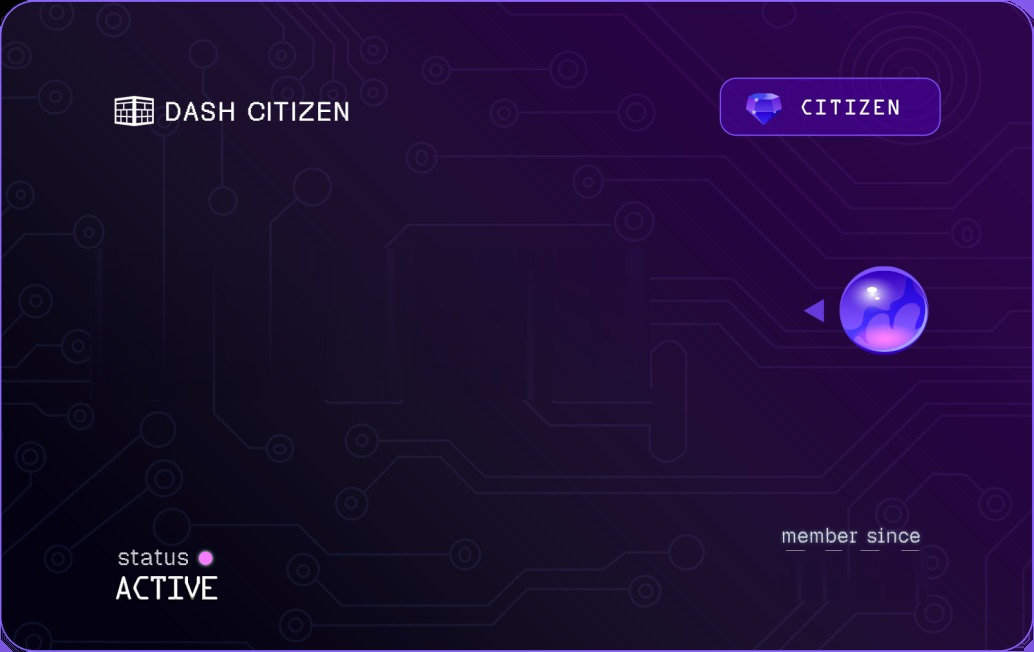
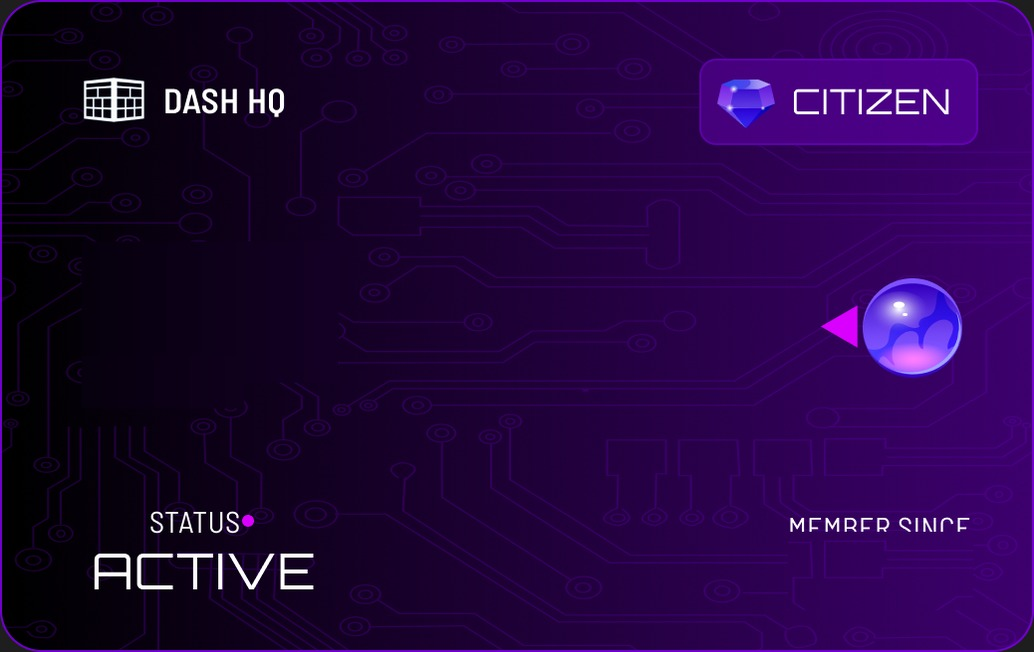
Rebuild membership card to match Figma design exactly (all 4 themes)
Regenerate card-bg-{red,purple,gold,blue}.jpg directly from the source
Figma file (real circuit pattern, gradient, border, badge, orb; fixes
"DASH CITIZEN" -> "DASH HQ"), including a real Blue background where
previously there was only a hand-drawn CSS approximation. Reposition
live name/handle/join-year overlay text to the exact Figma coordinates
in Orbitron/Asap Condensed, and simplify the download-card canvas logic
now that every theme uses the same baked-photo approach.

diff --git a/portal.js b/portal.js
@@ -245,7 +245,6 @@ var Dash = (function () {
 // ── Membership card color theme (orb selector) ───────────────────────────────
 var CardTheme = (function () {
   var THEMES = ['blue', 'gold', 'purple', 'red'];
-  var PHOTO_THEMES = ['gold', 'purple', 'red'];
   var KEY = 'dashhq_card_theme';
   var current = 'blue';
   function set(name) {
@@ -255,7 +254,6 @@ var CardTheme = (function () {
     if (card) {
       THEMES.forEach(function (t) { card.classList.remove('theme-' + t); });
       card.classList.add('theme-' + name);
-      card.classList.toggle('card-photo', PHOTO_THEMES.indexOf(name) !== -1);
       card.dataset.theme = name;
     }
     document.querySelectorAll('.orb-btn').forEach(function (b) {
@@ -277,176 +275,48 @@ var CardActions = (function () {
     var card = document.getElementById('memberCard');
     var rect = card.getBoundingClientRect();
     var S = 3, W = Math.round(rect.width * S), H = Math.round(rect.height * S);
-    var cs = getComputedStyle(card);
-    var cv1 = cs.getPropertyValue('--c-1').trim() || '#10204f';
-    var cv2 = cs.getPropertyValue('--c-2').trim() || '#0a1330';
-    var cv3 = cs.getPropertyValue('--c-3').trim() || '#0a1a3e';
-    var accent = cs.getPropertyValue('--c-accent').trim() || '#5B9BF8';
-    var lineColor = cs.getPropertyValue('--c-line').trim() || 'rgba(91,155,248,.5)';
-    var glowColor = cs.getPropertyValue('--c-glow').trim() || 'rgba(91,155,248,.4)';
-    var accentSoft = cs.getPropertyValue('--c-accent-soft').trim() || 'rgba(91,155,248,.16)';
-    var accentBorder = cs.getPropertyValue('--c-accent-border').trim() || 'rgba(91,155,248,.5)';
-
     var theme = card.dataset.theme || 'blue';
-    var isPhoto = ['gold', 'purple', 'red'].indexOf(theme) !== -1;
 
-    var logo = new Image(); logo.crossOrigin = 'anonymous';
-    var logoReady = new Promise(function (res) { logo.onload = res; logo.onerror = res; logo.src = 'assets/logo-mark-white.png'; });
     var bgImg = new Image(); bgImg.crossOrigin = 'anonymous';
-    var bgReady = isPhoto
-      ? new Promise(function (res) { bgImg.onload = res; bgImg.onerror = res; bgImg.src = 'assets/card-bg-' + theme + '.jpg'; })
-      : Promise.resolve();
+    var bgReady = new Promise(function (res) { bgImg.onload = res; bgImg.onerror = res; bgImg.src = 'assets/card-bg-' + theme + '.jpg'; });
     var fontsReady = Promise.all([
-      document.fonts.load('400 40px OCRAStd'),
-      document.fonts.load('700 16px Geist'),
-      document.fonts.load('600 14px Geist')
+      document.fonts.load('400 40px Orbitron'),
+      document.fonts.load('400 20px "Asap Condensed"')
     ]).catch(function () { });
 
-    Promise.all([fontsReady, logoReady, bgReady]).then(draw);
+    Promise.all([fontsReady, bgReady]).then(draw);
 
-    function chromeGrad(x, yTop, yBottom) {
-      var g = x.createLinearGradient(0, yTop, 0, yBottom);
-      g.addColorStop(0, '#f7f7fa'); g.addColorStop(0.32, '#c7c7d2'); g.addColorStop(0.55, '#f2f3f7'); g.addColorStop(1, '#93939f');
-      return g;
-    }
-
-    // Gold/Purple/Red reuse the exact source card art (drawn pixel-for-pixel
-    // here, same as on screen) with just the live name/handle/join-year
-    // painted on top - only Blue (no source art) gets the fully hand-drawn
-    // circuit/badge/orb below.
-    function drawPhoto(x) {
-      x.drawImage(bgImg, 0, 0, W, H);
-      var nameTxt = (document.getElementById('cardName') || {}).textContent || 'CITIZEN';
-      var nameY = H * 0.487;
-      x.font = '400 ' + (30 * S) + 'px OCRAStd,monospace';
-      x.fillStyle = chromeGrad(x, nameY - 26 * S, nameY + 6 * S);
-      x.fillText(nameTxt, W * 0.087, nameY);
-      var handleTxt = (document.getElementById('cardHandle') || {}).textContent || '';
-      x.fillStyle = '#C7CEDD'; x.font = '400 ' + (13 * S) + 'px "JetBrains Mono",monospace';
-      x.shadowColor = 'rgba(0,0,0,.5)'; x.shadowBlur = 2 * S;
-      x.fillText(handleTxt, W * 0.087, nameY + 24 * S);
-      x.shadowBlur = 0;
-      var sinceTxt = (document.getElementById('cardJoined') || {}).textContent || '-';
-      x.textAlign = 'right';
-      var yearGrad = chromeGrad(x, H * 0.905 - 2 * S, H * 0.905 + 16 * S);
-      x.font = '400 ' + (15 * S) + 'px OCRAStd,monospace'; x.fillStyle = yearGrad;
-      x.fillText(sinceTxt, W * 0.897, H * 0.923);
-      x.textAlign = 'left';
-    }
-
+    // Every theme is the actual Figma card art (circuit, gradient, border,
+    // logo, badge, orb, status/since label all baked into the photo) - only
+    // the citizen's real name/handle/join-year get painted on top, at the
+    // exact same percentages the on-screen .card CSS uses.
     function draw() {
       var cvs = document.createElement('canvas'); cvs.width = W; cvs.height = H;
       var x = cvs.getContext('2d');
-      function rr(px, py, w, h, r) { x.beginPath(); x.moveTo(px + r, py); x.arcTo(px + w, py, px + w, py + h, r); x.arcTo(px + w, py + h, px, py + h, r); x.arcTo(px, py + h, px, py, r); x.arcTo(px, py, px + w, py, r); x.closePath(); }
-      rr(0, 0, W, H, 20 * S); x.save(); x.clip();
+      function rr(px, py, w, h, rxv, ryv) { x.beginPath(); x.moveTo(px + rxv, py); x.arcTo(px + w, py, px + w, py + h, rxv); x.arcTo(px + w, py + h, px, py + h, rxv); x.arcTo(px, py + h, px, py, rxv); x.arcTo(px, py, px + w, py, rxv); x.closePath(); }
+      var rx = W * 0.0387, ry = H * 0.0613;
+      rr(0, 0, W, H, rx, ry); x.save(); x.clip();
 
-      if (isPhoto && bgImg.complete && bgImg.naturalWidth) {
-        drawPhoto(x);
-        x.restore();
-        rr(1 * S, 1 * S, W - 2 * S, H - 2 * S, 20 * S); x.strokeStyle = 'rgba(255,255,255,0.16)'; x.lineWidth = 2 * S; x.stroke();
-        var aPhoto = document.createElement('a'); aPhoto.href = cvs.toDataURL('image/png'); aPhoto.download = 'dash-citizen-card.png';
-        document.body.appendChild(aPhoto); aPhoto.click(); aPhoto.remove();
-        return;
-      }
-
-      var g = x.createLinearGradient(0, 0, W, H); g.addColorStop(0, cv1); g.addColorStop(0.55, cv2); g.addColorStop(1, cv3);
-      x.fillStyle = g; x.fillRect(0, 0, W, H);
-
-      var rg = x.createRadialGradient(W * 0.88, H * 0.05, 0, W * 0.88, H * 0.05, W * 0.42);
-      rg.addColorStop(0, glowColor); rg.addColorStop(1, 'rgba(0,0,0,0)');
-      x.globalCompositeOperation = 'screen'; x.fillStyle = rg; x.fillRect(0, 0, W, H);
-      x.globalCompositeOperation = 'source-over';
-
-      var vx = W / 1034, vy = H / 652;
-      var segs = [[0, 652, 1034, 0], [30, 70, 150, 190], [150, 190, 150, 280], [150, 280, 260, 280], [260, 280, 260, 380], [700, 60, 820, 180], [820, 180, 820, 80], [60, 450, 180, 570], [380, 500, 500, 620], [600, 440, 720, 560], [850, 380, 970, 500], [900, 240, 1010, 130]];
-      x.strokeStyle = lineColor; x.lineWidth = 1.3 * S; x.globalAlpha = 0.55;
-      segs.forEach(function (l) { x.beginPath(); x.moveTo(l[0] * vx, l[1] * vy); x.lineTo(l[2] * vx, l[3] * vy); x.stroke(); });
-      [46, 80, 114].forEach(function (r) { x.beginPath(); x.arc(890 * vx, 70 * vy, r * Math.min(vx, vy), 0, Math.PI * 2); x.stroke(); });
-      var dots = [[30, 70], [150, 190], [150, 280], [260, 280], [260, 380], [700, 60], [820, 180], [820, 80], [60, 450], [180, 570], [380, 500], [500, 620], [600, 440], [720, 560], [850, 380], [970, 500], [900, 240], [1010, 130]];
-      x.fillStyle = lineColor;
-      dots.forEach(function (d) { x.beginPath(); x.arc(d[0] * vx, d[1] * vy, 4 * Math.min(vx, vy), 0, Math.PI * 2); x.fill(); });
-      x.globalAlpha = 1;
-
-      var P = 26 * S;
-      var ls = 18 * S;
-      if (logo.complete && logo.naturalWidth) x.drawImage(logo, P, P - 3 * S, ls, ls);
-      x.fillStyle = '#fff'; x.font = '700 ' + (14 * S) + 'px Geist,Sora,sans-serif'; x.textBaseline = 'middle'; x.letterSpacing = (1.5 * S) + 'px';
-      x.shadowColor = 'rgba(0,0,0,.6)'; x.shadowBlur = 2 * S; x.shadowOffsetY = 1 * S;
-      x.fillText('DASH CITIZEN', P + ls + 8 * S, P - 3 * S + ls / 2); x.letterSpacing = '0px'; x.textBaseline = 'alphabetic';
-      x.shadowColor = 'transparent'; x.shadowBlur = 0; x.shadowOffsetY = 0;
-
-      var tierTxt = ((document.getElementById('cardTier') || {}).textContent || 'CITIZEN').toUpperCase();
-      x.font = '600 ' + (11 * S) + 'px Geist,"JetBrains Mono",monospace'; x.letterSpacing = (1 * S) + 'px';
-      var gemW = 15 * S, gap = 6 * S, padL = 10 * S, padR = 13 * S;
-      var tw = x.measureText(tierTxt).width;
-      var pw = gemW + gap + tw + padL + padR, ph = 30 * S;
-      var bx = W - P - pw, by = P - 4 * S;
-      rr(bx, by, pw, ph, ph / 2); x.fillStyle = accentSoft; x.fill();
-      x.strokeStyle = accentBorder; x.lineWidth = 1.5 * S; x.stroke();
-      x.save(); x.translate(bx + padL, by + ph / 2 - gemW / 2); var gs = gemW / 24; x.scale(gs, gs);
-      x.lineJoin = 'round';
-      var gemGrad = x.createLinearGradient(0, 3, 0, 21);
-      gemGrad.addColorStop(0, '#fff'); gemGrad.addColorStop(0.34, accent); gemGrad.addColorStop(1, cv2);
-      x.beginPath(); x.moveTo(7, 3); x.lineTo(17, 3); x.lineTo(21, 10); x.lineTo(12, 21); x.lineTo(3, 10); x.closePath();
-      x.fillStyle = gemGrad; x.fill();
-      x.strokeStyle = 'rgba(0,0,0,.45)'; x.lineWidth = 0.6; x.stroke();
-      x.beginPath(); x.moveTo(6.7, 4.6); x.bezierCurveTo(8.5, 3.6, 15.5, 3.6, 17.3, 4.6); x.lineTo(15.2, 7.6); x.lineTo(8.8, 7.6); x.closePath();
-      x.fillStyle = 'rgba(255,255,255,.65)'; x.fill();
-      x.fillStyle = 'rgba(255,255,255,.95)'; x.beginPath(); x.arc(7.6, 9.2, 0.85, 0, Math.PI * 2); x.fill();
-      x.fillStyle = 'rgba(255,255,255,.8)'; x.beginPath(); x.arc(8.2, 14, 0.65, 0, Math.PI * 2); x.fill();
-      x.fillStyle = 'rgba(255,255,255,.7)'; x.beginPath(); x.arc(17, 12.6, 0.65, 0, Math.PI * 2); x.fill();
-      x.restore();
-      x.fillStyle = accent; x.textBaseline = 'middle';
-      x.shadowColor = 'rgba(0,0,0,.5)'; x.shadowBlur = 2 * S; x.shadowOffsetY = 1 * S;
-      x.fillText(tierTxt, bx + padL + gemW + gap, by + ph / 2 + 1 * S);
-      x.shadowColor = 'transparent'; x.shadowBlur = 0; x.shadowOffsetY = 0;
-      x.textBaseline = 'alphabetic'; x.letterSpacing = '0px';
+      x.drawImage(bgImg, 0, 0, W, H);
+      x.textBaseline = 'top';
 
       var nameTxt = (document.getElementById('cardName') || {}).textContent || 'CITIZEN';
-      var nameY = H * 0.487;
-      x.font = '400 ' + (30 * S) + 'px OCRAStd,monospace';
-      x.fillStyle = chromeGrad(x, nameY - 26 * S, nameY + 6 * S);
-      x.fillText(nameTxt, W * 0.087, nameY);
-      var handleTxt = (document.getElementById('cardHandle') || {}).textContent || '';
-      x.fillStyle = '#C7CEDD'; x.font = '400 ' + (13 * S) + 'px "JetBrains Mono",monospace';
+      x.font = '400 ' + (0.0967 * W) + 'px Orbitron,monospace';
+      x.fillStyle = '#fff'; x.letterSpacing = (0.001934 * W) + 'px';
       x.shadowColor = 'rgba(0,0,0,.5)'; x.shadowBlur = 2 * S;
-      x.fillText(handleTxt, W * 0.087, nameY + 24 * S);
-      x.shadowBlur = 0;
+      x.fillText(nameTxt, W * 0.087, H * 0.383);
 
-      var orbR = 19 * S, orbCx = W - W * 0.08 - orbR, orbCy = H * 0.478;
-      var triX = orbCx - orbR - 14 * S;
-      x.beginPath(); x.moveTo(triX, orbCy - 7 * S); x.lineTo(triX, orbCy + 7 * S); x.lineTo(triX - 11 * S, orbCy); x.closePath();
-      x.fillStyle = accent; x.globalAlpha = 0.85; x.fill(); x.globalAlpha = 1;
-      x.save(); x.shadowColor = glowColor; x.shadowBlur = 22 * S;
-      var og = x.createRadialGradient(orbCx - orbR * 0.24, orbCy - orbR * 0.3, orbR * 0.05, orbCx - orbR * 0.1, orbCy - orbR * 0.05, orbR * 1.05);
-      og.addColorStop(0, '#fff'); og.addColorStop(0.32, accent); og.addColorStop(0.92, cv2); og.addColorStop(1, cv1);
-      x.beginPath(); x.arc(orbCx, orbCy, orbR, 0, Math.PI * 2); x.fillStyle = og; x.fill();
-      var spec = x.createRadialGradient(orbCx - orbR * 0.3, orbCy - orbR * 0.36, 0, orbCx - orbR * 0.3, orbCy - orbR * 0.36, orbR * 0.4);
-      spec.addColorStop(0, 'rgba(255,255,255,.95)'); spec.addColorStop(1, 'rgba(255,255,255,0)');
-      x.beginPath(); x.arc(orbCx, orbCy, orbR, 0, Math.PI * 2); x.fillStyle = spec; x.fill();
-      x.restore();
-
-      var labelY = H * 0.845, valueY = H * 0.923;
-      x.font = '600 ' + (9.5 * S) + 'px Geist,"JetBrains Mono",monospace'; x.letterSpacing = (1 * S) + 'px';
-      var dotR = 3.5 * S, dotX = W * 0.087 + dotR;
-      x.save(); x.shadowColor = glowColor; x.shadowBlur = 8 * S;
-      x.beginPath(); x.arc(dotX, labelY, dotR, 0, Math.PI * 2); x.fillStyle = accent; x.fill(); x.restore();
-      x.fillStyle = '#8A9BBF'; x.fillText('STATUS', dotX + dotR + 6 * S, labelY + 1 * S);
-      x.letterSpacing = '0px';
-      var footGrad = chromeGrad(x, valueY - 16 * S, valueY + 2 * S);
-      x.font = '400 ' + (15 * S) + 'px OCRAStd,monospace'; x.fillStyle = footGrad;
-      x.fillText('ACTIVE', W * 0.087, valueY);
+      var handleTxt = (document.getElementById('cardHandle') || {}).textContent || '';
+      x.font = '400 ' + (0.031 * W) + 'px "Asap Condensed",sans-serif'; x.letterSpacing = (0.000619 * W) + 'px';
+      x.fillText(handleTxt, W * 0.087, H * 0.558);
 
       var sinceTxt = (document.getElementById('cardJoined') || {}).textContent || '-';
-      x.textAlign = 'right';
-      x.font = '600 ' + (9.5 * S) + 'px Geist,"JetBrains Mono",monospace'; x.letterSpacing = (1 * S) + 'px'; x.fillStyle = '#8A9BBF';
-      x.fillText('MEMBER SINCE', W * 0.897, labelY); x.letterSpacing = '0px';
-      x.font = '400 ' + (15 * S) + 'px OCRAStd,monospace'; x.fillStyle = footGrad;
-      x.fillText(sinceTxt, W * 0.897, valueY);
-      x.textAlign = 'left';
+      x.font = '400 ' + (0.0484 * W) + 'px Orbitron,monospace'; x.letterSpacing = (0.000967 * W) + 'px';
+      x.fillText(sinceTxt, W * 0.77, H * 0.828);
 
+      x.shadowBlur = 0; x.letterSpacing = '0px'; x.textBaseline = 'alphabetic';
       x.restore();
-      rr(1 * S, 1 * S, W - 2 * S, H - 2 * S, 20 * S); x.strokeStyle = 'rgba(255,255,255,0.16)'; x.lineWidth = 2 * S; x.stroke();
+      rr(1 * S, 1 * S, W - 2 * S, H - 2 * S, rx, ry); x.strokeStyle = 'rgba(255,255,255,0.16)'; x.lineWidth = 2 * S; x.stroke();
       var a = document.createElement('a'); a.href = cvs.toDataURL('image/png'); a.download = 'dash-citizen-card.png';
       document.body.appendChild(a); a.click(); a.remove();
     }

diff --git a/portal.css b/portal.css
@@ -80,54 +80,31 @@
 .welcome{font-family:var(--mono);font-size:12px;letter-spacing:.16em;text-transform:uppercase;color:var(--green);margin-bottom:18px;display:inline-flex;align-items:center;gap:8px}
 .welcome .d{width:7px;height:7px;border-radius:50%;background:var(--green);box-shadow:0 0 8px var(--green)}
 
-/* Card themes: each is just a set of custom properties, the .card markup
-   below never changes, only which theme class is on it. Gold/Purple/Red
-   colors match the source card designs; Blue reuses the site's own brand
-   blue (its gradient stops are the site's original, un-themed card look);
-   Mono is silver-on-black for a colorless option. */
-.card.theme-gold{--c-1:#000;--c-2:#1a1400;--c-3:#3d3000;--c-line:rgba(240,201,74,.55);--c-accent:#F0C94A;--c-accent-soft:rgba(240,201,74,.16);--c-accent-border:rgba(240,201,74,.5);--c-glow:rgba(240,201,74,.4)}
-.card.theme-purple{--c-1:#000;--c-2:#160a2e;--c-3:#2d1259;--c-line:rgba(151,124,246,.5);--c-accent:#977CF6;--c-accent-soft:rgba(151,124,246,.16);--c-accent-border:rgba(151,124,246,.5);--c-glow:rgba(151,124,246,.4)}
-.card.theme-red{--c-1:#000;--c-2:#1c0508;--c-3:#3d0a10;--c-line:rgba(240,90,71,.5);--c-accent:#F0473A;--c-accent-soft:rgba(240,71,58,.16);--c-accent-border:rgba(240,71,58,.5);--c-glow:rgba(240,71,58,.4)}
-.card.theme-blue{--c-1:#10204f;--c-2:#0a1330;--c-3:#0a1a3e;--c-line:rgba(91,155,248,.5);--c-accent:#5B9BF8;--c-accent-soft:rgba(91,155,248,.16);--c-accent-border:rgba(91,155,248,.5);--c-glow:rgba(91,155,248,.4)}
+/* Card art: all four themes are the actual Figma card designs exported as
+   one pixel-exact background photo each (circuit pattern, gradient,
+   border, logo, DASH HQ wordmark, CITIZEN badge+gem, orb, status/ACTIVE
+   and the "member since" label all baked in) - only the citizen's real
+   name/handle/join-year render as live text, positioned at the exact spot
+   those fields sit in the source design. container-type lets that live
+   text scale in lockstep with the card's rendered width at any screen
+   size, matching the fixed 1034x652 design canvas ratio exactly. */
+.card.theme-gold{--c-photo:url('assets/card-bg-gold.jpg')}
+.card.theme-purple{--c-photo:url('assets/card-bg-purple.jpg')}
+.card.theme-red{--c-photo:url('assets/card-bg-red.jpg')}
+.card.theme-blue{--c-photo:url('assets/card-bg-blue.jpg')}
 
-.card{position:relative;width:100%;aspect-ratio:1.586/1;border-radius:18px;overflow:hidden;border:1.5px solid var(--c-accent-border);background:linear-gradient(135deg,var(--c-1),var(--c-2) 55%,var(--c-3));text-align:left;padding:24px;box-shadow:0 30px 70px -28px var(--c-glow)}
+.card{position:relative;width:100%;aspect-ratio:1034/652;border-radius:3.87%/6.13%;overflow:hidden;background-image:var(--c-photo);background-size:cover;background-position:center;background-color:#000;text-align:left;container-type:inline-size;box-shadow:0 30px 70px -28px rgba(0,0,0,.55)}
 
-/* Gold/Purple/Red are the actual source card artwork (logo, badge, gem,
-   orb, and circuit pattern baked in as one pixel-exact photo) with only
-   the citizen's real name/handle/join-year overlaid as live text at the
-   same spot those fields sit in the source design - not a hand-rebuilt
-   approximation. Blue has no source art (it's an extrapolated scheme
-   using the site's own brand color), so it keeps the hand-drawn
-   circuit/badge/orb built below. Both share the exact same absolute
-   positions for name/handle/orb/status/year so switching themes never
-   shifts anything on screen. */
-.card.card-photo{background-image:var(--c-photo);background-size:cover;background-position:center;background-color:#000}
-.card.card-photo.theme-gold{--c-photo:url('assets/card-bg-gold.jpg')}
-.card.card-photo.theme-purple{--c-photo:url('assets/card-bg-purple.jpg')}
-.card.card-photo.theme-red{--c-photo:url('assets/card-bg-red.jpg')}
-.card.card-photo .card-circuit,.card.card-photo .card-glow,.card.card-photo .top,.card.card-photo .orb-indicator{display:none}
-.card.card-photo .status-block{display:none}
-.card.card-photo .since-block .l{display:none}
-.card-circuit{position:absolute;inset:0;width:100%;height:100%;color:var(--c-line);opacity:.7}
-.card-glow{position:absolute;top:-30%;right:-20%;width:65%;height:80%;border-radius:50%;background:radial-gradient(circle,var(--c-glow),transparent 70%);mix-blend-mode:screen;pointer-events:none}
+/* Hand-drawn fallback pieces from the pre-photo version - always hidden
+   now that every theme has real source art baked into its background. */
+.card .card-circuit,.card .card-glow,.card .top,.card .orb-indicator,.card .status-block,.card .since-block .l{display:none}
+
 .card .ct{position:relative;z-index:2;height:100%}
-.card .top{display:flex;align-items:center;justify-content:space-between}
-.card .brand{display:inline-flex;align-items:center;gap:8px;font-family:'Geist',var(--display);font-weight:700;font-size:14px;letter-spacing:.12em;color:#fff;text-shadow:0 1px 1px rgba(0,0,0,.6),0 -1px 0 rgba(255,255,255,.18)}
-.card .brand .card-brand-mark{width:19px;height:19px;flex:none;object-fit:contain}
-.card .tier-badge{display:inline-flex;align-items:center;gap:6px;font-family:'Geist',var(--body);font-weight:600;font-size:11px;letter-spacing:.1em;padding:6px 13px 6px 10px;border-radius:20px;background:var(--c-accent-soft);border:1px solid var(--c-accent-border);color:var(--c-accent);text-shadow:0 1px 1px rgba(0,0,0,.5),0 -1px 0 rgba(255,255,255,.15)}
-.card .tier-badge .gem-ic{width:14px;height:14px;flex:none;color:var(--c-accent);stroke-width:1.4;stroke-linejoin:round}
-.card .id-block{position:absolute;left:8.7%;top:38%;max-width:65%}
-.card .name{font-family:'OCRAStd',var(--mono);font-weight:400;font-size:clamp(22px,6vw,32px);letter-spacing:.02em;line-height:1.15;background:linear-gradient(180deg,#f7f7fa 0%,#c7c7d2 32%,#f2f3f7 55%,#93939f 100%);-webkit-background-clip:text;background-clip:text;color:transparent;filter:drop-shadow(0 1px 1px rgba(0,0,0,.55))}
-.card .handle{font-family:var(--mono);font-size:13px;color:#C7CEDD;margin-top:4px;text-shadow:0 1px 2px rgba(0,0,0,.5)}
-.card .orb-indicator{position:absolute;right:8%;top:41%;display:flex;align-items:center;gap:6px}
-.card .orb-tri{width:0;height:0;border-top:7px solid transparent;border-bottom:7px solid transparent;border-right:11px solid var(--c-accent);opacity:.85}
-.card .orb-ball{width:38px;height:38px;border-radius:50%;flex:none;background:radial-gradient(circle at 30% 24%,rgba(255,255,255,.98) 0%,rgba(255,255,255,.55) 8%,rgba(255,255,255,0) 22%),radial-gradient(circle at 38% 32%,#fff 0%,var(--c-accent) 34%,var(--c-2) 92%);box-shadow:0 0 22px var(--c-glow),inset 0 -8px 12px rgba(0,0,0,.45),inset 0 4px 6px rgba(255,255,255,.3),inset -6px -4px 10px rgba(0,0,0,.25)}
-.card .status-block{position:absolute;left:8.7%;top:83.6%}
-.card .foot .l{font-family:'Geist',var(--mono);font-size:10px;letter-spacing:.08em;color:var(--muted2);display:flex;align-items:center;gap:6px}
-.card .foot .since-block .l{justify-content:flex-end}
-.card .foot .dot{width:7px;height:7px;border-radius:50%;background:var(--c-accent);box-shadow:0 0 8px var(--c-glow)}
-.card .foot .v{font-family:'OCRAStd',var(--mono);font-weight:400;font-size:17px;margin-top:3px;background:linear-gradient(180deg,#f7f7fa 0%,#c7c7d2 32%,#f2f3f7 55%,#93939f 100%);-webkit-background-clip:text;background-clip:text;color:transparent;filter:drop-shadow(0 1px 1px rgba(0,0,0,.55))}
-.card .since-block{position:absolute;right:10.4%;top:88.5%;text-align:right}
+.card .id-block{position:absolute;inset:0}
+.card .name{position:absolute;left:8.7%;top:38.3%;max-width:65%;font-family:'Orbitron',var(--mono);font-weight:400;font-size:9.67cqw;line-height:1;letter-spacing:.19cqw;color:#fff;text-shadow:0 1px 2px rgba(0,0,0,.5)}
+.card .handle{position:absolute;left:8.7%;top:55.8%;font-family:'Asap Condensed',var(--mono);font-size:3.1cqw;color:#fff;letter-spacing:.06cqw;text-shadow:0 1px 2px rgba(0,0,0,.5)}
+.card .since-block{position:absolute;inset:0}
+.card .since-block .v{position:absolute;left:77%;top:82.8%;font-family:'Orbitron',var(--mono);font-weight:400;font-size:4.84cqw;letter-spacing:.1cqw;color:#fff;text-shadow:0 1px 2px rgba(0,0,0,.5)}
 
 /* orb theme-selector, sits below the card so its glossy-sphere buttons
    read as separate "pick a color" controls rather than card decoration */
@@ -577,11 +554,6 @@
   .tool-card{padding:13px}
   .tool-head{gap:9px;margin-bottom:11px}
   .tk-tile{padding:12px;gap:6px}
-  .card{padding:14px}
-  .card .name{font-size:17px}
-  .card .brand{font-size:11px}
-  .card .orb-ball{width:28px;height:28px}
-  .card .tier-badge{font-size:9.5px;padding:5px 10px 5px 8px}
   .card-label{font-size:10.5px}
   .orb-btn{width:30px;height:30px}
   .orb-strip{gap:12px}
@@ -610,9 +582,6 @@
   .pair-liq{order:2;margin-left:0}
   .pair-age{order:3}
   .pair-copy{order:4;margin-left:auto}
-  .card .name{font-size:19px}
-  .card .brand{font-size:12px}
-  .card{padding:16px}
   .gas-est-row{font-size:12px}
   .auth.wide{padding:16px 12px 20px}
   .tool-card{padding:12px;border-radius:13px}

diff --git a/index.html b/index.html
@@ -56,7 +56,7 @@
 </script>
 <link rel="preconnect" href="https://fonts.googleapis.com">
 <link rel="preconnect" href="https://fonts.gstatic.com" crossorigin>
-<link href="https://fonts.googleapis.com/css2?family=Sora:wght@400;500;600;700;800&family=DM+Sans:wght@300;400;500;600&family=JetBrains+Mono:wght@400;500;700&family=Bricolage+Grotesque:wght@700;800&display=swap" rel="stylesheet">
+<link href="https://fonts.googleapis.com/css2?family=Sora:wght@400;500;600;700;800&family=DM+Sans:wght@300;400;500;600&family=JetBrains+Mono:wght@400;500;700&family=Bricolage+Grotesque:wght@700;800&family=Orbitron:wght@400;500&family=Asap+Condensed:wght@400&display=swap" rel="stylesheet">
 <link rel="stylesheet" href="styles.css">
 <link rel="stylesheet" href="portal.css">
 </head>